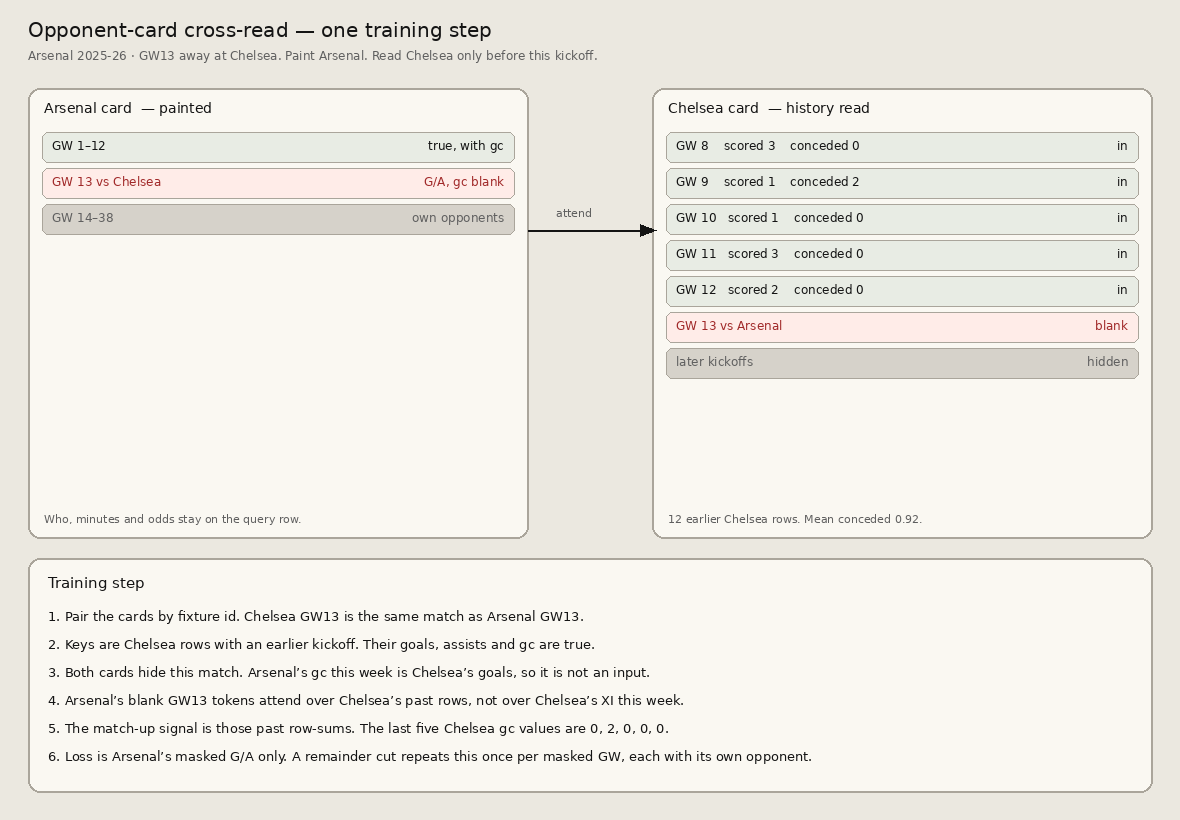
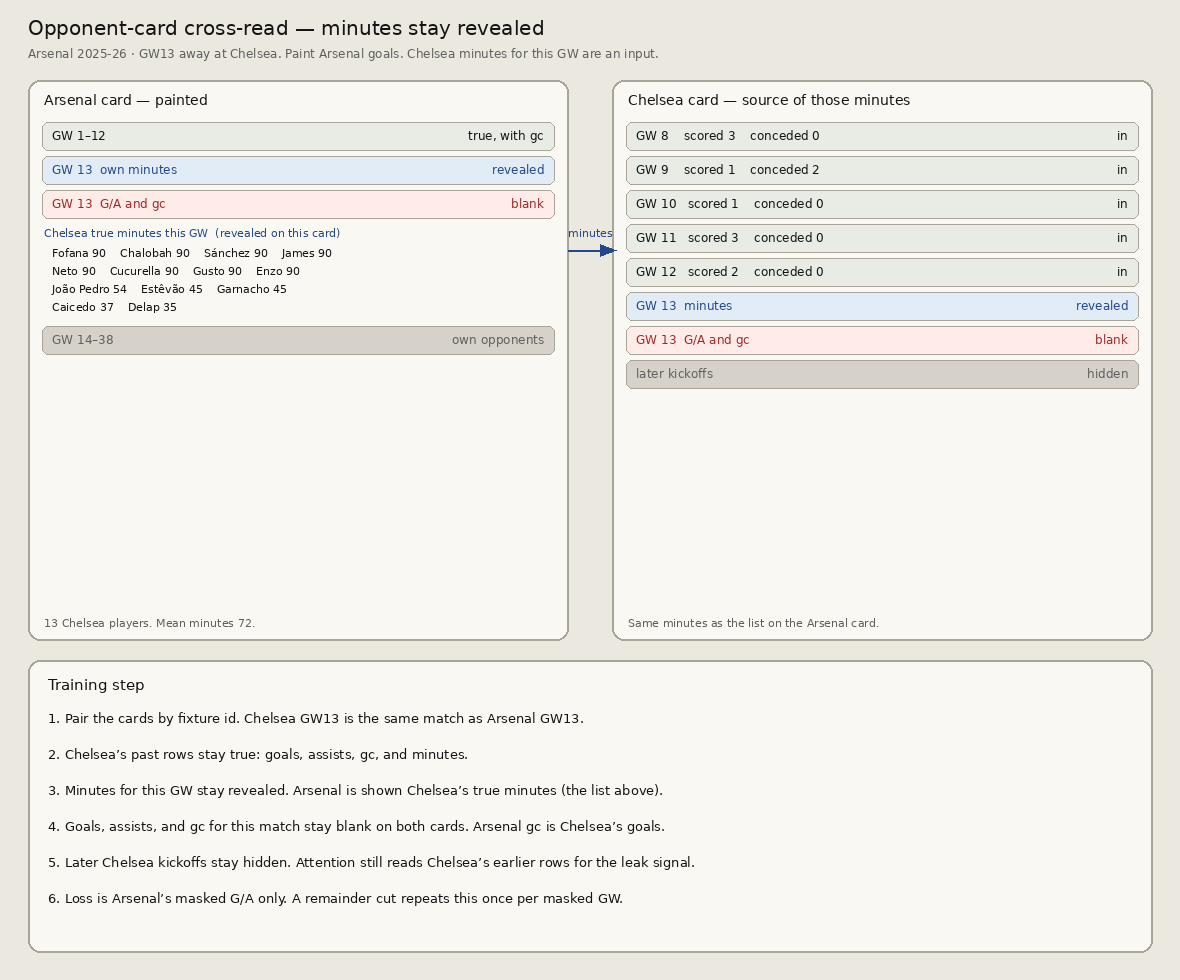
Reveal opponent minutes on the painted GW
The Arsenal card is shown Chelsea's true GW13 minutes. Goals,
assists, and goals conceded for that match stay blank on both cards.

Changed region(s): [[0.0305, 0.0, 0.9763, 0.4878], [0.0305, 0.6098, 0.9763, 0.9756]]

diff --git a/reports/baudot_opponent_crossread.md b/reports/baudot_opponent_crossread.md
@@ -1,16 +1,16 @@
 # Opponent-card cross-read (training step)
 
-One masked GW on the club being painted attends over the opponent card's earlier rows. Illustrated on Arsenal 2025-26 GW13 away at Chelsea.
+One masked GW on the club being painted attends over the opponent card. Minutes for that GW stay revealed. Illustrated on Arsenal 2025-26 GW13 away at Chelsea.
 
 ![Opponent cross-read](baudot_opponent_crossread.png)
 
 ## Rule
 
 1. Pair club-season cards by fixture id.
-2. Keys: opponent rows with an earlier kickoff. Goals, assists, and gc on those rows are true.
-3. Both cards hide the current match. The painted club's gc that week is the opponent's goals, so it is not an input.
-4. The painted row keeps who, minutes, and odds. Its G/A and gc are blank. Attention reads the opponent's past rows, not the opponent's XI in this match.
-5. The match-up signal is the opponent's past row-sums (goals scored, goals conceded).
-6. Loss is the painted club's masked G/A only. A remainder cut repeats the step once per masked GW, each with its own opponent.
+2. Opponent rows with an earlier kickoff stay true: goals, assists, gc, and minutes.
+3. Minutes for the fixture being painted stay revealed. The Arsenal card is shown Chelsea’s true minutes for GW13.
+4. Goals, assists, and gc for this match stay blank on both cards. Arsenal’s gc that week is Chelsea’s goals.
+5. Later opponent kickoffs stay hidden. Attention still reads the opponent’s earlier rows.
+6. Loss is the painted club’s masked G/A only. A remainder cut repeats the step once per masked GW, each with its own opponent.
 
-Chelsea had 12 earlier rows before this kickoff (mean gc 0.92). The last five conceded counts are 0, 2, 0, 0, 0.
+Chelsea GW13 minutes on the Arsenal card: 13 players, mean 72. Fofana, Chalobah, Sánchez, James, Neto, Cucurella, Gusto, and Enzo 90; João Pedro 54; Estêvão 45; Garnacho 45; Caicedo 37; Delap 35.
